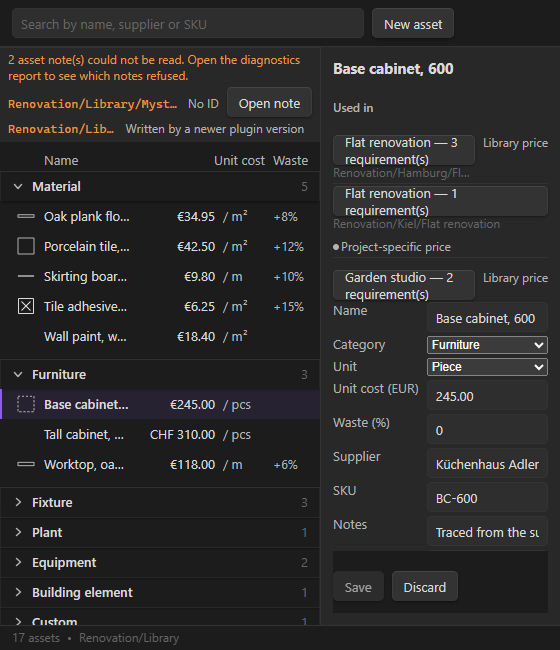
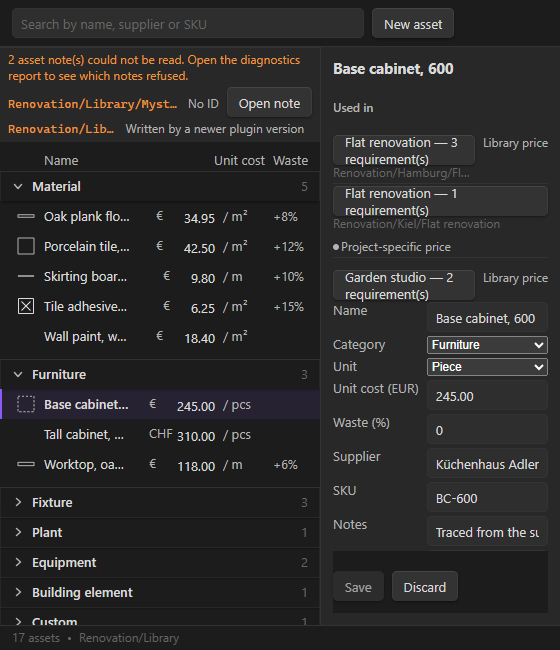
Give the currency its own box so decimals align in every locale
Right-aligning the whole formatted price aligns decimals only where the locale
writes the currency BEFORE the number. Intl puts it first in English (€34.95)
and last in German (34,95 € against 34,95 CHF), and the catalogue is
legitimately mixed (PRD §72), so a one-to-three-character suffix carried every
comma with it. Reported on PR #98.

AssetRow reads formatToParts and puts the currency in its own element with a
fixed 4ch box; the separator the formatter would have emitted is dropped so
nothing about the affix's width reaches the digits, and the side comes from the
formatter rather than a language list.

The measurement that had been reporting 0px could not have reported anything
else: measure() read .rp-al-row__amount, which IS the fixed 11ch grid track, so
its edge is identical in every row by construction — reverting to the one-span
layout still printed 0px through a defect the picture showed. It reads
.rp-al-row__number now, and was tested against a perturbation before being
believed: with the fixed box removed it reports 16.625px in German and 0px in
English. AL10-1440-light-de is new, and is why any of this was visible — the
only previous German capture was at 460, where no shelf is drawn.

Changed region(s): [[0.3036, 0.3077, 0.3946, 0.5231], [0.2732, 0.6154, 0.3946, 0.6769], [0.3036, 0.7077, 0.3946, 0.7385]]

diff --git a/src/presentation/library/AssetRow.vue b/src/presentation/library/AssetRow.vue
@@ -95,8 +95,8 @@ const spokenMark = computed((): string => {
  * carries its own currency and a project carries its own (PRD §72), so a vault-wide catalogue
  * is legitimately mixed.
  */
-const priceLabel = computed((): string =>
-	new Intl.NumberFormat(currentLanguage(), {
+const price = computed(() => {
+	const parts = new Intl.NumberFormat(currentLanguage(), {
 		style: 'currency',
 		currency: props.entry.currency,
 		minimumFractionDigits: 2,
@@ -104,7 +104,21 @@ const priceLabel = computed((): string =>
 		// The one place a monetary amount passes through `Number`, display-only, bounded to two
 		// fraction digits, exact below 2^53/100; a decimal-string formatter arrives with the
 		// first surface that needs more.
-	}).format(Number(props.entry.unitCostAmount)));
+	}).formatToParts(Number(props.entry.unitCostAmount));
+	return {
+		// `formatToParts` rather than `format`, so the currency travels in its OWN element and
+		// the fixed-width box `styles/asset-shelf.css` gives it keeps the number's edge constant
+		// across a mixed-currency shelf. The `literal` between the two is dropped with it: that
+		// separator is the affix box's padding now, so nothing about the currency's own width
+		// reaches the digits. Reported on PR #98.
+		number: parts.filter((part) => part.type !== 'currency' && part.type !== 'literal').map((part) => part.value).join(''),
+		currency: parts.find((part) => part.type === 'currency')?.value ?? '',
+		// Which side the locale writes it on, asked of the formatter rather than of a language
+		// list: English writes `€34.95` and German `34,95 €`, and the answer is per currency too
+		// (`en` gives `PLN 34.95` with a separator and `€34.95` without one).
+		leading: parts[0]?.type === 'currency',
+	};
+});
 
 /**
  * Fraction in [0, 1] (`Requirement.ts`'s own comment on the field this defaults) to a printed
@@ -135,7 +149,17 @@ const unitSymbol = computed((): string => tr(MEASUREMENT_UNIT_SYMBOLS[props.entr
 		>
 			<AssetMark :outline="outline" />
 			<span class="rp-al-row__name">{{ entry.name }}</span>
-			<span class="rp-al-row__amount">{{ priceLabel }}</span>
+			<span class="rp-al-row__amount">
+				<span
+					v-if="price.leading"
+					class="rp-al-row__currency"
+				>{{ price.currency }}</span>
+				<span class="rp-al-row__number">{{ price.number }}</span>
+				<span
+					v-if="!price.leading"
+					class="rp-al-row__currency"
+				>{{ price.currency }}</span>
+			</span>
 			<span class="rp-al-row__unit">/ {{ unitSymbol }}</span>
 			<span class="rp-al-row__waste">{{ wasteLabel ?? '' }}</span>
 			<span class="rp-al-row__supplier">{{ entry.supplier ?? '' }}</span>

diff --git a/tests/presentation/library/assetRow.test.ts b/tests/presentation/library/assetRow.test.ts
@@ -13,6 +13,9 @@ import type { AssetOutline } from '../../../src/application/queries/ListAssetOut
 import type { AssetId } from '../../../src/domain/asset/AssetId';
 import { createAssetId } from '../../../src/domain/asset/AssetId';
 import { currencyOf } from '../../../src/core/money/Money';
+// From the mock's own module, not from `obsidian`: `setLanguage` is the fake's knob and the
+// real API has no such member, so the alias's type declarations do not carry it.
+import { setLanguage } from '../../helpers/obsidian-mock';
 
 function anEntry(overrides: Partial<CatalogueEntryDto> = {}): CatalogueEntryDto {
 	return {
@@ -100,6 +103,37 @@ describe('AssetRow', () => {
 		expect(eur.get('.rp-al-row__amount').text()).toContain('€');
 		expect(gbp.get('.rp-al-row__amount').text()).toContain('£');
 		expect(gbp.get('.rp-al-row__amount').text()).not.toContain('€');
+	});
+
+	/**
+	 * PR #98's finding, as far as jsdom can carry it. Right-aligning the whole formatted string
+	 * aligns decimals only where the locale writes the currency BEFORE the number; German writes
+	 * it after, at one to three characters, so a mixed-currency shelf moved every comma. What is
+	 * checkable here is the STRUCTURE the fix rests on — the digits in an element the currency is
+	 * not in, on whichever side the formatter puts it. That the box is then a constant width is a
+	 * layout fact, and `AL10-1440-light-de`'s measured 0px spread is its only instrument.
+	 */
+	it('keeps the digits out of the currency element on both sides of the number', () => {
+		const row = mountRow({ entry: anEntry({ unitCostAmount: '34.95', currency: currencyOf('EUR') }) });
+
+		expect(row.get('.rp-al-row__number').text()).toBe('34.95');
+		expect(row.get('.rp-al-row__currency').text()).toBe('€');
+		expect(row.get('.rp-al-row__amount').text()).not.toContain('34.95 €');
+	});
+
+	it('writes the currency on the side the locale puts it', () => {
+		setLanguage('de');
+		try {
+			const row = mountRow({ entry: anEntry({ unitCostAmount: '34.95', currency: currencyOf('CHF') }) });
+			const children = [...row.get('.rp-al-row__amount').element.children].map((el) => el.className);
+
+			expect(row.get('.rp-al-row__number').text()).toBe('34,95');
+			expect(children).toEqual(['rp-al-row__number', 'rp-al-row__currency']);
+		} finally {
+			// The mock's language is a module-level `let` shared by every later file in this
+			// worker, so a suite that moves it owes the reset (`obsidian-mock.ts`'s own rule).
+			setLanguage('en');
+		}
 	});
 
 	it('prints the unit cost, right-aligned by class, with its own unit suffix', () => {

diff --git a/styles/asset-shelf.css b/styles/asset-shelf.css
@@ -240,6 +240,34 @@
 	font-variant-numeric: tabular-nums;
 }
 
+/*
+ * The currency travels in its own fixed-width box INSIDE that cell, because right-aligning the
+ * whole formatted string aligns decimals only where the locale writes the currency BEFORE the
+ * number. English does (`€34.95`) and every capture above was English, which is why the 0px
+ * spread held; German writes `34,95 €` against `34,95 CHF` in a catalogue that is legitimately
+ * mixed (PRD §72), and a suffix of one to three characters carried every comma with it.
+ * Reported on PR #98, and seeable by no gate here: jsdom lays nothing out and no capture drew
+ * a German shelf until `AL10-1440-light-de`. `4ch` holds a three-letter ISO code plus its
+ * separator — the one the formatter would have emitted is dropped in `AssetRow.vue` precisely
+ * so this box owns it — and a wider affix clips rather than moving the number, the same trade
+ * the unit track takes. The side comes from POSITION rather than a modifier: the cell holds
+ * exactly two elements, so the currency is `:first-child` or `:last-child` and never both.
+ */
+.rp-al-row__currency {
+	display: inline-block;
+	inline-size: 4ch;
+	overflow: hidden;
+	color: var(--text-muted);
+}
+
+.rp-al-row__currency:first-child {
+	text-align: start;
+}
+
+.rp-al-row__currency:last-child {
+	text-align: end;
+}
+
 .rp-al-row__unit {
 	min-width: 0;
 	overflow: hidden;

diff --git a/docs/user-experience/asset-library-delivery/delivery-record.md b/docs/user-experience/asset-library-delivery/delivery-record.md
@@ -315,3 +315,39 @@ each with the task that shipped it:
 12. Back restores the shelves' scroll position — Task C2.
 13. Four labels adopt the specification's wording, in both locales — Task C3.
 14. The chevron: the specification was corrected, `Back to library` stands unchanged — Task C4.
+
+### PR #98 review: the currency affix, and the instrument that could not see it
+
+Codex's review of `d52507e3` reported that right-aligning the whole formatted price aligns
+decimals only where the locale writes the currency BEFORE the number. Verified rather than
+taken: `Intl.NumberFormat` puts it first in English (`€34.95`, `PLN 34.95`) and last in German
+(`34,95 €`, `34,95 CHF`), and the catalogue is legitimately mixed (PRD §72 — the fixture's
+`tall-cabinet-400` is CHF beside sixteen EUR assets, in the same open shelf as the selected
+row). So the finding held for German and the shipped alignment was English-only.
+
+`AssetRow.vue` now reads `formatToParts` and puts the currency in its own `.rp-al-row__currency`
+element, given a fixed `4ch` box in `styles/asset-shelf.css`; the separator the formatter would
+have emitted is dropped, so nothing about the affix's width reaches the digits. The side comes
+from the formatter (`parts[0].type === 'currency'`), never from a language list.
+
+**The measurement that had been reporting `0px` could not have reported anything else, and that
+matters more than the defect.** `measure()` read `.rp-al-row__amount`'s right edge — but that
+element IS the fixed `11ch` grid track, so its edge is identical in every row by construction.
+Measured by reverting to the one-span layout and re-capturing: German still read `0px` through a
+defect the picture plainly showed. The earlier `0px` claims at 1440/720/560 were therefore
+tautologies, not evidence. `measure()` now reads `.rp-al-row__number`, the digits themselves, and
+was tested against a perturbation before being believed — with `.rp-al-row__currency`'s
+`inline-size` removed it reports **16.625px** at `AL10-1440-light-de` and `0px` in English, which
+is the defect's own shape. With the box restored every captured width reads `0px`.
+
+`AL10-1440-light-de` is new and is why any of this was visible: the only previous German capture
+was at 460, where the shelves are not drawn at all, so no capture had ever measured a
+currency-after-the-amount locale. 18 captures now; no page faults; every record's
+`scrollWidth === width`.
+
+**Newly visible in that capture and NOT fixed here** — the German column heading `Verschnitt`
+needs 57px in the 5ch (35px) waste track and overlaps `Lieferant` beside it (measured
+`scrollWidth 57 / clientWidth 35` at 1440; English `Waste` is 35/35 and fits exactly). The data
+cells below already clip; the heading cells do not. It is a heading-row defect independent of
+this round's currency work, and `styles/asset-shelf.css` is at its 400-line cap, so the clip rule
+it needs arrives with the extraction that cap now requires rather than inside this fix.
